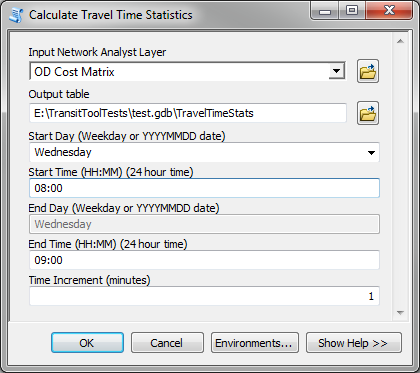
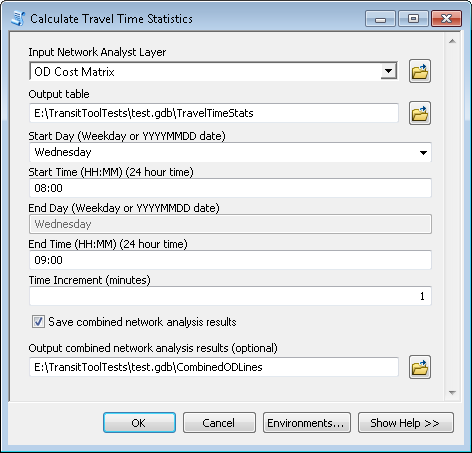
Option to save combined NA output to file

diff --git a/add-GTFS-to-a-network-dataset/scripts/CalculateTravelTimeStats.py b/add-GTFS-to-a-network-dataset/scripts/CalculateTravelTimeStats.py
@@ -77,6 +77,16 @@ try:
     end_time_input = arcpy.GetParameterAsText(5)
     increment_input = arcpy.GetParameter(6)
 
+    # Whether to save the combined NA results to a single feature class
+    save_combined_output = arcpy.GetParameter(7)
+    combined_output = arcpy.GetParameterAsText(8)
+    if save_combined_output and not combined_output:
+        arcpy.AddWarning(
+            "You chose to save the combined network analysis results but did not specify an output feature class. " + \
+            "The combined network analysis results will not be saved."
+            )
+        save_combined_output = False
+
     # Make list of times of day to run the analysis
     try:
         timelist = AnalysisHelpers.make_analysis_time_of_day_list(start_day_input, end_day_input, start_time_input, end_time_input, increment_input)
@@ -112,6 +122,14 @@ try:
                 "reported for each origin-destination pair in the output of this tool may be inaccurate."
             arcpy.AddWarning(msg % (count, count))
 
+    if save_combined_output:
+        # Add the TimeOfDay field to the output sublayer to track results
+        time_field = AnalysisHelpers.add_TimeOfDay_field_to_sublayer(
+            input_network_analyst_layer,
+            output_subLayer,
+            output_sublayer_name
+            )
+
     # Initialize a dictionary to track output stats
     # {key: [Min travel time, Max travel time, Num times reached, Mean travel time]}
     # OD key: (OriginID, DestinationID)
@@ -120,6 +138,7 @@ try:
 
     # Solve for each time of day and save output
     arcpy.AddMessage("Solving %s at time..." % solver_opts["Friendly Name"])
+    first = True
     for t in timelist:
         arcpy.AddMessage(str(t))
 
@@ -137,6 +156,17 @@ try:
                 # Only alert them if it's some weird error.
                 arcpy.AddMessage("Solve failed.  Errors: %s. Continuing to next time of day." % errs)
             continue
+
+        if save_combined_output:
+            # Calculate the TimeOfDay field
+            AnalysisHelpers.calculate_TimeOfDay_field(output_subLayer, time_field, t)
+            #Append the polygons to the output feature class. If this was the first
+            #solve, create the feature class.
+            if first:
+                arcpy.management.CopyFeatures(output_subLayer, combined_output)
+            else:
+                arcpy.management.Append(output_subLayer, combined_output)
+            first = False
 
         # Read the OD matrix output and populate the dictionary with the min travel time for each OD pair
         cur_fields = ["Total_" + solverProps.impedance] + [kf[0] for kf in solver_opts["Key fields"]]

diff --git a/add-GTFS-to-a-network-dataset/UsersGuide_TransitAnalysisTools.md b/add-GTFS-to-a-network-dataset/UsersGuide_TransitAnalysisTools.md
@@ -102,6 +102,8 @@ For each origin-destination pair in an OD Cost Matrix layer or each route in a R
 - Maximum travel time
 - Mean travel time
 
+You can also choose to save a feature class containing the combined network analysis output for the entire time window. 
+
 Running this tool involves two steps:
 
 1. Prepare an OD Cost Matrix or Route layer in the map
@@ -111,12 +113,12 @@ Running this tool involves two steps:
 
 After creating your GTFS-enabled network dataset using the *Add GTFS to a Network Dataset* toolbox, [create an OD Cost Matrix](http://desktop.arcgis.com/en/arcmap/latest/extensions/network-analyst/exercise-5-calculating-service-area-and-creating-an-od-cost-matrix.htm) or [Route](http://desktop.arcgis.com/en/arcmap/latest/extensions/network-analyst/exercise-3-finding-the-best-route-using-a-network-dataset.htm) network analysis layer in the map for the origins and destinations or route stops you want to analyze, and configure the layer with the [correct analysis settings](./AddGTFStoND_UsersGuide.html#Step7).  Solve it for a few different times of day to make sure it works and that you get the results you want.
 
-The *Calculate Travel Time Statistics* tool does not use the geometry of the solved network analysis layers.  To improve tool performance, set the Output Shape Type setting to "None".
+The *Calculate Travel Time Statistics* tool does not use the geometry of the solved network analysis layers when calculating statistics.  To improve tool performance, set the Output Shape Type setting to "None".
 
 You can also [save your network analysis layer as a .lyr file](http://desktop.arcgis.com/en/arcmap/latest/tools/data-management-toolbox/save-to-layer-file.htm) to use as input for the tool.  This will be particularly useful is you want to run this tool in a python script outside of ArcMap.
 
 ### 2. Run the *Calculate Travel Time Statistics* tool
-Once your network analysis layer is prepared, run the *Calculate Travel Time Statistics* tool to solve the layer for a range of start times over a time window.  The tool will calculate statistics about the travel time across the time window and save the results to a table.
+Once your network analysis layer is prepared, run the *Calculate Travel Time Statistics* tool to solve the layer for a range of start times over a time window.  The tool will calculate statistics about the travel time across the time window and save the results to a table and optionally save the combined network analysis output for each time slice to a feature class.
 
 ![Screenshot of tool dialog](./images/Screenshot_CalculateTravelTimeStatistics_Dialog.png)
 
@@ -128,6 +130,8 @@ Once your network analysis layer is prepared, run the *Calculate Travel Time Sta
 * **End Day (Weekday or YYYYMMDD date)**: If you're using a generic weekday for Start Day, you must use the same day for End Day.  If you want to run an analysis spanning multiple days, choose specific YYYYMMDD dates for both Start Day and End Day.
 * **End Time (HH:MM) (24 hour time)**: The upper end of the time window you wish to analyze.  Must be in HH:MM format (24-hour time).  The End Time is inclusive, meaning that a network analysis result will be included for the time of day you enter here.
 * **Time Increment (minutes)**: Increment the network analysis layer's time of day by this amount between solves.  For example, for a Time Increment of 1 minute, the output would include results for 10:00, 10:01, 10:02, etc.  A Time Increment of 2 minutes would generate results for 10:00, 10:02, 10:04, etc.
+* **Save combined network analysis results**: You can choose whether to save the network analysis layer's output sublayer (Lines for OD Cost Matrix, Routes for Route) for each time slice into a single combined feature class. Using this option slows the tool's performance.
+* **Output combined network analysis results**: If you have chosen to save the combined network analysis results, specify the path to an output feature class to store the results.  A file geodatabase feature class is highly recommended, since the output may contain a large number of rows.
 
 #### Outputs
 The resulting geodatabase table will contain one row per origin-destination pair (for an OD Cost Matrix layer) or route name (for a Route layer) in the solved network analysis layer.  The OriginID and DestinationID or the route Name fields are included for reference.  The following summary statistics fields are included:
@@ -141,11 +145,14 @@ If your input is an OD Cost Matrix layer, use caution when setting a default cut
 
 Suppose your OD Cost Matrix layer uses a "Destinations To Find" count of 5. This means that the travel time for only the 5 closest destinations to each origin will be reported in the OD Cost Matrix output.  Because the travel time between each origin and destination changes throughout the day, the closest destinations may be different at different times of day, so the statistics reported for each origin-destination pair in the output of this tool may be inaccurate.  For example, for Origin 1, Destination 3 might be one of the five closest destinations at 8:00, but at 8:01, it is not.  Destination 7 is closer.  Consequently, the calculated statistics will include the travel time from Origin 1 to Destination 3 at 8:00 but not 8:01, and it will include the travel time from Origin 1 to Destination 7 at 8:01 but not 8:00.  Because of this confusion, using the "Destinations To Find" setting with this tool is not recommended.
 
+If you have chosen to save the combined network analysis results an output feature class will be created.  This feature class will contain all the rows from the network analysis layer's output sublayer for each time slice in your time window with an additional **TimeOfDay** field indicating the time slice that produced the row.  This table could get very large, particularly for OD Cost Matrix.
+
 #### Tool performance
 Network analysis layers with large numbers of input features (origins, destinations, stops, etc.) may take a long time to solve, and since this tool solves the analysis once per start time within the time limit, this tool could take a very long time to complete.
 
 Note that when this tool runs, if the input OD Cost Matrix layer and the network it references are in the map, these layers might re-draw over and over again, which impacts tool performance.  Before running the tool, turn off the layers in the map to prevent the re-draw behavior.
 
+The tool will run slower if you have chosen to save the combined network analysis results.
 
 
 
